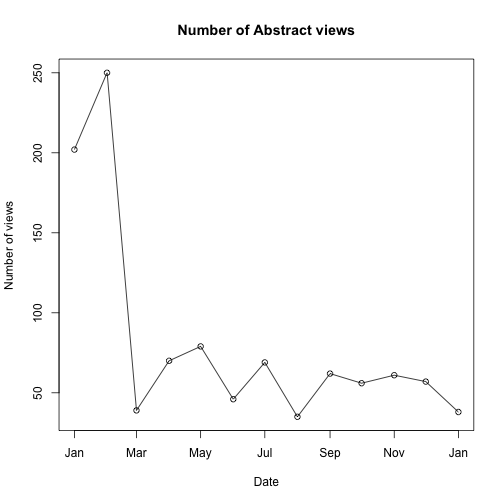
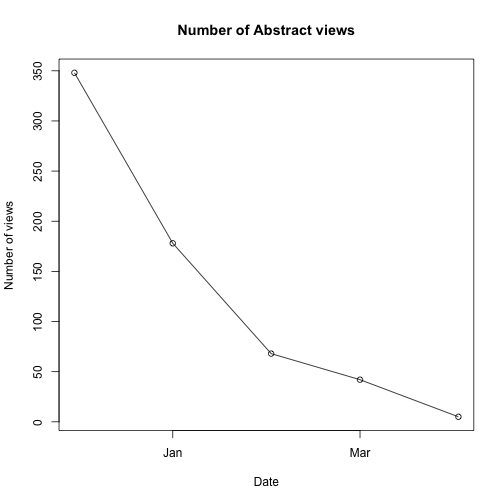
Updating README and adding CI with travis and appveyor

diff --git a/README.md b/README.md
@@ -1,6 +1,8 @@
+
+
 ## biorxiv
 
-##### *Quickly search and get details about papers on the pre-print server [biorxiv.org](http://www.biorxiv.org) in R*
+*Quickly search and get details about papers on the pre-print server [biorxiv.org](http://www.biorxiv.org) in R*
 
 **Quick Start**
 
@@ -9,6 +11,13 @@ Currently the package is only available on github and installable via `devtools`
 ```r
 library(devtools)
 install_github("emhart/biorxiv")
+```
+
+```
+## Error in download(dest, src, auth): client error: (404) Not Found
+```
+
+```r
 library(biorxiv)
 ```
 
@@ -25,7 +34,7 @@ summary(bxEco)
 ```
 ## Search term: Ecology 
 ## Number of results returned: 10 
-## Number of results found: 110
+## Number of results found: 145
 ```
 
 This will return a search results object that has the URL's for your search results.  If you want to get details about all your search results we can extract basic features like DOI, Authors, e-mails, title, abstract text, date as well as metrics on views and downloads.
@@ -33,51 +42,56 @@ This will return a search results object that has the URL's for your search resu
 
 ```r
 bxEcoDetails <-  bx_extract(bxEco)
+```
 
+```
+## Error in matrix(metrics, ncol = 3, nrow = length(metrics)/3, byrow = T): 'data' must be of a vector type, was 'NULL'
+```
+
+```r
 bxEcoDetails[[1]]
 ```
 
 ```
 ## $authors
 ## $authors$names
-## [1] "Stefan Siebert"          "Freya E. Goetz"         
-## [3] "Samuel H. Church"        "Pathikrit Bhattacharyya"
-## [5] "Felipe Zapata"           "Steven H.D. Haddock"    
-## [7] "Casey W. Dunn"          
+##  [1] "Peter Søgaard Jørgensen " "Frédéric Barraquand "    
+##  [3] "Vincent Bonhomme "        "Timothy J Curran "       
+##  [5] "Ellen Cieraad "           "Thomas Ezard "           
+##  [7] "Laureano Gherardi "       "R. Andrew Hayes "        
+##  [9] "Timothée Poisot "         "Roberto Salguero-Gómez " 
+## [11] "Lucía DeSoto "            "Brian Swartz "           
+## [13] "Jennifer M. Talbot "      "Brian Wee "              
+## [15] "Naupaka Zimmerman "      
+## 
+## $authors$email
+## [1] "psjoergensen@gmail.com"
 ## 
 ## 
 ## $paper
 ## $paper$title
-## [1] "Stem cells in a colonial animal with localized growth zones"
+## [1] "Connecting people and ideas from around the world: global innovation platforms for next-generation ecology and beyond"
 ## 
 ## $paper$abstract
-## [1] "Siphonophores (Hydrozoa) have unparalleled colony-level complexity, precision of organization, and functional specialization between zooids (i.e., the units that make up colonies). Previous work has shown that, unlike other colonial animals, most growth in siphonophores is restricted to one or two well-defined growth zones that are the sites of both elongation and zooid budding. To understand this unique growth at the cellular level, we characterize the distribution of interstitial stem cells (i-cells) in the siphonophore Nanomia bijuga. Within the colony we find that i-cells are present at the tips of the growth zones, at well-defined sites where new zooid buds will arise, and in the youngest zooid buds. As each zooid matures, i-cells become progressively restricted to specific regions until they are mostly absent from the oldest zooids. We find no evidence of the migratory i-cells that have been observed in colonial cnidarian relatives. The restriction of i-cells to particular developing structures and sites of growth suggest a plant-like model of growth for siphonophores, where the growth zones function much like meristems. This spatial restriction of stem cells could also explain the precision of colony-level organization in siphonophores as a consequence of restricted growth potential."
+## [1] "We present a case for using global community innovation platforms (GCIPs), an approach to improve innovation and knowledge exchange in international scientific communities through a common and open online infrastructure. We highlight the value of GCIPs by focusing on recent efforts targeting the ecological sciences, where GCIPs are of high relevance given the urgent need for interdisciplinary, geographical, and cross-sector collaboration to cope with growing challenges to the environment as well as the scientific community itself. Amidst the emergence of new international institutions, organizations, and dedicated meetings, GCIPs provide a stable international infrastructure for rapid and long-term coordination that can be accessed by any individual. The accessibility can be particularly important for researchers early in their careers. Recent examples of early career GCIPs complement an array of existing options for early career scientists to improve skill sets, increase academic and social impact, and broaden career opportunities. In particular, we provide a number of examples of existing early career initiatives that incorporate elements from the GCIPs approach, and highlight an in-depth case study from the ecological sciences: the International Network of Next-Generation Ecologists (INNGE), initiated in 2010 with support from the International Association for Ecology and 18 member institutions from six continents."
 ## 
 ## $paper$date
-## [1] "2014-01-06"
+## [1] "2014-12-14"
 ## 
 ## $paper$DOI
-## [1] "10.1101/001685"
+## [1] "10.1101/012666"
 ## 
 ## $paper$fulltext_url
-## [1] "http://www.biorxiv.org/content/biorxiv/early/2014/01/06/001685.full.pdf"
+## [1] "http://www.biorxiv.org/content/early/2014/12/14/012666.full.pdf"
 ## 
 ## 
 ## $metrics
-##          date Abstract PDF
-## 1  2014-01-01      202  99
-## 2  2014-02-01      250  71
-## 3  2014-03-01       39  27
-## 4  2014-04-01       70  22
-## 5  2014-05-01       79  35
-## 6  2014-06-01       46  46
-## 7  2014-07-01       69  45
-## 8  2014-08-01       35  12
-## 9  2014-09-01       62  18
-## 10 2014-10-01       56  46
-## 11 2014-11-01       61  22
-## 12 2014-12-01       57  21
-## 13 2015-01-01       38  13
+##         date Abstract PDF
+## 1 2014-12-01      348  26
+## 2 2015-01-01      178  39
+## 3 2015-02-01       68  49
+## 4 2015-03-01       42  19
+## 5 2015-04-01        5   1
 ## 
 ## attr(,"class")
 ## [1] "biorxiv_paper"
